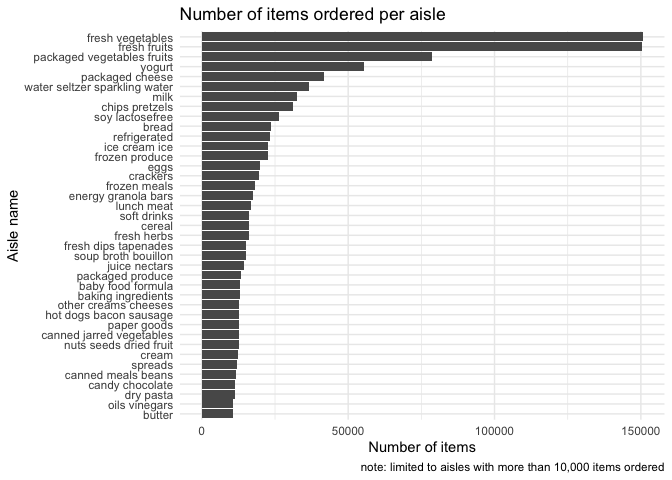
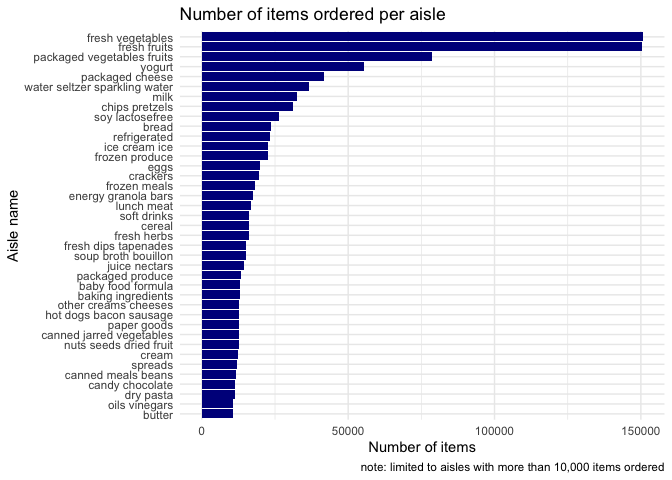
cleaning up

Changed region(s): [[0.2812, 0.0625, 0.9688, 0.875]]

diff --git a/p8105_hw3_smm2350.md b/p8105_hw3_smm2350.md
@@ -5,14 +5,14 @@ Shaina Mackin
 
 # Homework 3
 
-To begin, I will load packages and instacart data, and set theme
+To begin, I will load libraries and instacart data, and set theme
 options.
 
 ## Problem 1
 
 ### Instacart data
 
-I will write a short description of the dataset, noting the size and
+I will write a short description of the dataset,noting the size and
 structure of the data, describing key variables, and giving illustrative
 examples of observations:
 
@@ -20,8 +20,8 @@ The instacart dataset contains online grocery shopping data from 2017,
 with 1384617 observations, or products from orders, and 15 variables,
 for a total of 20769255 data points. Key variables include `order_id`,
 `product_id`, `user_id`, whether items were `reordered`,
-`order_hour_of_day` and `days_since_prior_order` (ranging from 0 to 30
-), as well as `product_name` and associated `aisle` and `department`.
+`order_hour_of_day` and `days_since_prior_order` (ranging from 0 to 30)
+as well as `product_name` and associated `aisle` and `department`.
 
 Initial analysis shows `produce` to be the most frequently ordered-from
 department, as visualized below:
@@ -31,16 +31,34 @@ instacart %>%
   count(department) %>%
   arrange(desc(n)) %>%
   ggplot(aes(forcats::fct_reorder(department, (n)), n)) +
-  geom_col() +
+  geom_col(fill="darkblue") +
   coord_flip() +
   labs(
-    title = "Departments in decreasing order of popularity",
-    x = "Department name",
-    y = "Number of items ordered",
+    title = "Departments in Decreasing Order of Popularity",
+    x = "Department Name",
+    y = "Number of Items Ordered",
   )
 ```
 
 ![](p8105_hw3_smm2350_files/figure-gfm/exploration-1.png)<!-- -->
+
+Let’s also investigate the busiest hour of the day for orders, on
+average.
+
+``` r
+instacart %>%
+  ggplot(aes(x = order_hour_of_day)) +
+  geom_histogram(binwidth = .5, fill = "darkblue") +
+  labs(
+    title = "Order Volume Over 24-Hour Day",
+    x = "Hour of Day",
+    y = "Order Count"
+  )
+```
+
+![](p8105_hw3_smm2350_files/figure-gfm/more_exploration-1.png)<!-- -->
+
+Hour 14, or 2pm, has the highest volume of orders placed, on average.
 
 #### Let’s explore how many aisles are there, and which are most ordered from.
 
@@ -48,7 +66,7 @@ instacart %>%
 instacart %>%
   group_by(aisle_id, aisle) %>%
   summarize(n_obs = n()) %>%
-  arrange(desc(n_obs)) 
+  arrange(desc(n_obs))
 ```
 
     ## `summarise()` has grouped output by 'aisle_id'. You can override using the `.groups` argument.
@@ -69,20 +87,18 @@ instacart %>%
     ## 10      112 bread                          23635
     ## # … with 124 more rows
 
-There are 134 aisles. The aisles with the most ordered-from items are
+There are 134 aisles. The aisles that are most ordered from are
 `fresh vegetables` and `fresh fruits`, followed by
 `packaged vegetables fruits`.
 
-#### To illustrate this, I will make a plot that shows the number of items
-
-#### ordered in each aisle, limiting to aisles with more than 10000 items ordered.
+#### To illustrate this, I will make a plot that shows the number of items ordered in each aisle, limiting to aisles with more than 10000 items ordered.
 
 ``` r
 instacart %>%
   count(aisle) %>%
   filter(n > 10000) %>%
   ggplot(aes(forcats::fct_reorder(aisle, (n)), n)) +
-  geom_col() +
+  geom_col(fill = "darkblue") +
   coord_flip() +
   labs(
     title = "Number of items ordered per aisle",
@@ -98,10 +114,7 @@ This again shows that the aisles most ordered from are
 `fresh vegetables` and `fresh fruits`, followed by
 `packaged vegetables fruits`.
 
-#### I will make a table showing the three most popular items in the
-
-`baking ingredients`, `dog food care`, and `packaged vegetables fruits`
-aisles.
+#### I will make a table showing the three most popular items in the `baking ingredients`, `dog food care`, and `packaged vegetables fruits` aisles.
 
 ``` r
 instacart %>%
@@ -140,9 +153,7 @@ from the `baking ingredients` aisle; and
 `organix chicken & brown rice recipe`, and `small dog biscuits` are the
 top three ordered items from the `dog food care` aisle, respectively.
 
-#### I will make a 2x7 table showing the mean hour of the day at which
-
-#### Pink Lady Apples and Coffee Ice Cream are ordered on each day of the week.
+#### I will make a 2x7 table showing the mean hour of the day at which Pink Lady Apples and Coffee Ice Cream are ordered on each day of the week.
 
 ``` r
 instacart %>%
@@ -157,8 +168,6 @@ instacart %>%
   ) %>%
   knitr::kable(caption = "Mean Hour of Day Ordered")
 ```
-
-    ## `summarise()` has grouped output by 'product_name'. You can override using the `.groups` argument.
 
 | product\_name    |   Sun |   Mon |   Tue |   Wed |   Thu |   Fri |   Sat |
 |:-----------------|------:|------:|------:|------:|------:|------:|------:|
@@ -250,13 +259,7 @@ more locations. In 2010, `CA`, `CO`, `FL`, `MD`, `MA`, `NE`, `NJ`, `NY`,
 `NC`, `OH`, `PA`, `SC`, `TX`, and `WA` were observed at 7 or more
 locations.
 
-#### I will construct a dataset that is limited to Excellent responses,
-
-#### and contains, year, state, and a variable that averages the data\_value across
-
-#### locations within a state. I will also make a “spaghetti” plot of this
-
-#### average value over time within a state.
+#### I will construct a dataset that is limited to Excellent responses, and contains, year, state, and a variable that averages the data\_value across locations within a state. I will also make a “spaghetti” plot of this average value over time within a state.
 
 ``` r
 df_excellent = brfss_tidy %>%
@@ -285,11 +288,7 @@ df_excellent %>%
 
 The state with the lowest average data value over the years is `WY`.
 
-#### I will make a two-panel plot showing, for the years 2006, and 2010,
-
-#### distribution of data\_value for responses (“Poor” to “Excellent”)
-
-#### among locations in NY State.
+#### I will make a two-panel plot showing, for the years 2006, and 2010, distribution of data\_value for responses (“Poor” to “Excellent”) among locations in NY State.
 
 ``` r
 brfss_tidy %>%
